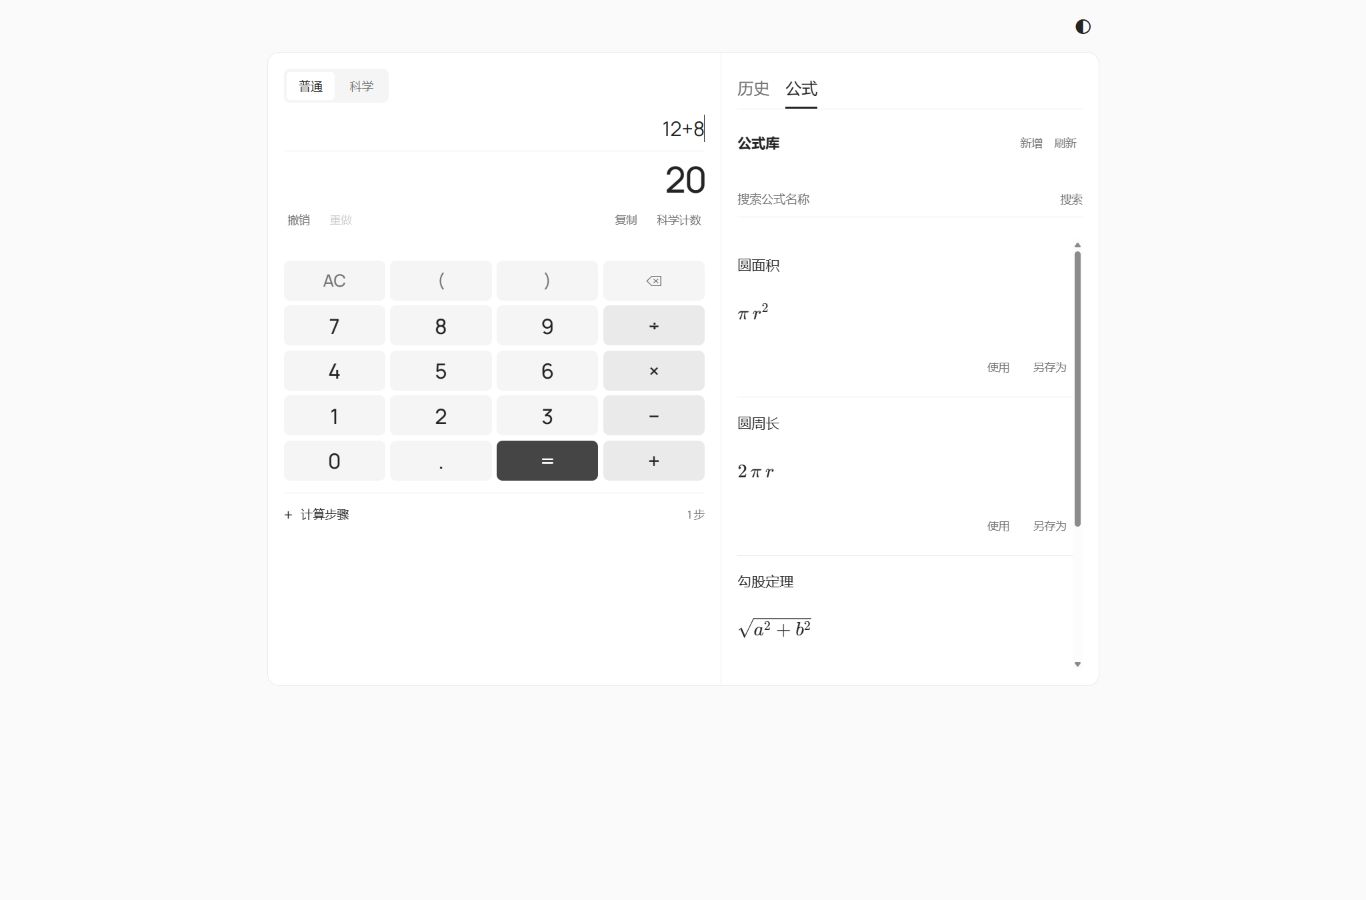
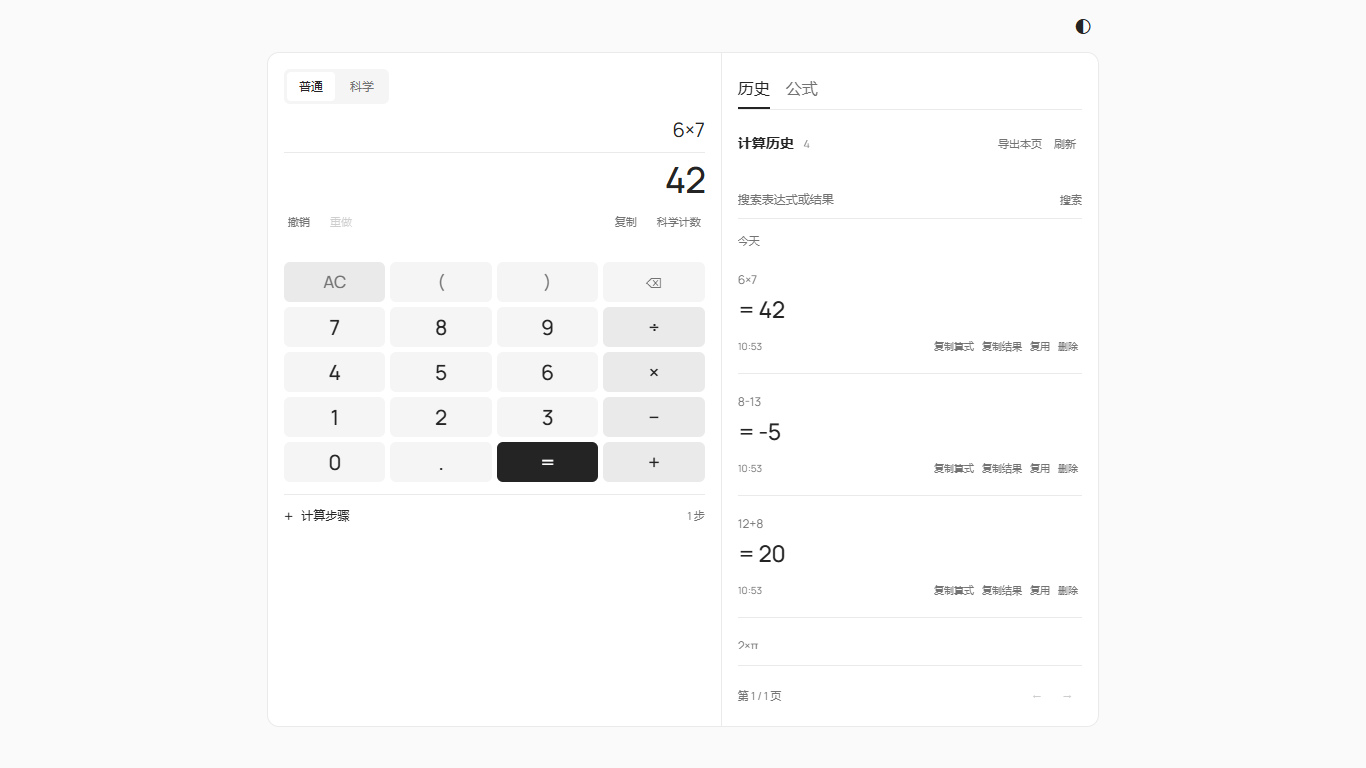
Use familiar mathematical symbols in history and refresh screenshots

diff --git a/src/main.js b/src/main.js
@@ -4,7 +4,7 @@ import '@fontsource-variable/manrope';
 import '@fontsource-variable/jetbrains-mono';
 import './style.css';
 import { request } from './api.js';
-import { localDateKey, dateHeading, historyCsv } from './history-utils.js';
+import { localDateKey, dateHeading, historyCsv, historyExpression } from './history-utils.js';
 import { ExpressionEditor } from './expression-editor.js';
 import { ResultView, reusable, scientific } from './result-view.js';
 
@@ -396,7 +396,7 @@ function renderRecord(record) {
   article.className = 'history-record';
   const expression = document.createElement('p');
   expression.className = 'record-expression';
-  expression.textContent = record.expression.replaceAll('*', '×').replaceAll('/', '÷');
+  expression.textContent = historyExpression(record.expression);
   if (/\b(sin|cos|tan|asin|acos|atan)\s*\(/.test(record.expression)) {
     const unit = document.createElement('span');
     unit.className = 'angle-label';
@@ -426,17 +426,17 @@ function renderRecord(record) {
     if (!state.busy) {
       if (/[a-zπ^!]/i.test(record.expression)) setMode('scientific');
       setAngle(record.angle_mode === 'rad' ? 'rad' : 'deg');
-      setExpression(record.expression);
+      setExpression(historyExpression(record.expression));
     }
   });
   const remove = document.createElement('button');
   remove.type = 'button';
   remove.className = 'text-button delete';
   remove.textContent = '删除';
-  remove.setAttribute('aria-label', `删除记录 ${record.expression}`);
+  remove.setAttribute('aria-label', `删除记录 ${historyExpression(record.expression)}`);
   remove.addEventListener('click', () => {
     state.deleteId = record.id;
-    byId('delete-expression').textContent = `${record.expression} = ${record.result}`;
+    byId('delete-expression').textContent = `${historyExpression(record.expression)} = ${record.result}`;
     byId('delete-dialog').showModal();
   });
   for (const [label, value] of [

diff --git a/tests/history.test.js b/tests/history.test.js
@@ -1,6 +1,6 @@
 import test from 'node:test';
 import assert from 'node:assert/strict';
-import { historyCsv, dateHeading } from '../src/history-utils.js';
+import { historyCsv, dateHeading, historyExpression } from '../src/history-utils.js';
 test('CSV preserves quoted expressions, long decimals and formula safety', () => {
   const csv = historyCsv([
     {
@@ -26,4 +26,10 @@ test('date headings cross month boundaries using local calendar dates', () => {
   assert.equal(dateHeading(new Date(2026, 9, 1, 0), now), '今天');
   assert.equal(dateHeading(new Date(2026, 8, 30, 23), now), '昨天');
   assert.equal(dateHeading(new Date(2026, 8, 29, 23), now), '2026-09-29');
+});
+test('history displays mathematical symbols without changing identifier names', () => {
+  assert.equal(historyExpression('2*pi+pi/3'), '2×π+π÷3');
+  assert.equal(historyExpression('sin(pi/2)'), 'sin(π÷2)');
+  assert.equal(historyExpression('π*2+exp(1)'), 'π×2+exp(1)');
+  assert.equal(historyExpression('spin(2)'), 'spin(2)');
 });

diff --git a/src/history-utils.js b/src/history-utils.js
@@ -1,3 +1,7 @@
+export function historyExpression(expression) {
+  return expression.replace(/\bpi\b/g, 'π').replaceAll('*', '×').replaceAll('/', '÷');
+}
+
 export function localDateKey(timestamp) {
   const date = new Date(timestamp);
   return `${date.getFullYear()}-${String(date.getMonth() + 1).padStart(2, '0')}-${String(date.getDate()).padStart(2, '0')}`;

diff --git a/README.en.md b/README.en.md
@@ -118,4 +118,4 @@ The desktop layout targets 1366×768. Main mobile controls are at least 44px, wi
 
 Additional documents: [Verification (Chinese)](docs/VERIFICATION.md) · [Design](DESIGN.md) · [Architecture and feature diagrams](docs/OVERVIEW.md)
 
-The expression field displays multiplication and division as `×` and `÷`. Typed or pasted `*` and `/` are converted automatically, including history reuse, function insertion, and undo/redo. The backend accepts both forms. After this update on 2026-10-05, all 19 frontend tests, syntax checks, and the build passed.
+The expression field displays multiplication and division as `×` and `÷`. Typed or pasted `*` and `/` are converted automatically, including history reuse, function insertion, and undo/redo. The backend accepts both forms. History, deletion confirmation, and history reuse also display `π`, `×`, and `÷`. Copying and CSV export retain the original expression. After the update on 2026-10-05, all 20 frontend tests, syntax checks, and the build passed. The project preview screenshot has been refreshed.

diff --git a/README.md b/README.md
@@ -118,4 +118,4 @@ npm run preview -- --port 5173
 
 补充文档：[功能与验证记录](docs/VERIFICATION.md) · [设计说明（英文）](DESIGN.md) · [结构与功能图（英文）](docs/OVERVIEW.md)
 
-输入框中的乘除运算统一显示为 `×`、`÷`；键盘输入或粘贴的 `*`、`/` 会自动转换。历史复用、函数插入及撤销重做保持相同显示。后端继续兼容两种写法。2026-10-05 此项更新后前端 19 项测试、语法检查和构建通过。
+输入框中的乘除运算统一显示为 `×`、`÷`；键盘输入或粘贴的 `*`、`/` 会自动转换。历史复用、函数插入及撤销重做保持相同显示。后端继续兼容两种写法。2026-10-05 历史显示进一步统一为 `π`、`×`、`÷`，删除确认与历史复用采用相同符号；复制及 CSV 导出保留原始表达式。更新后前端 20 项测试、语法检查和构建通过，项目预览截图已更新。
